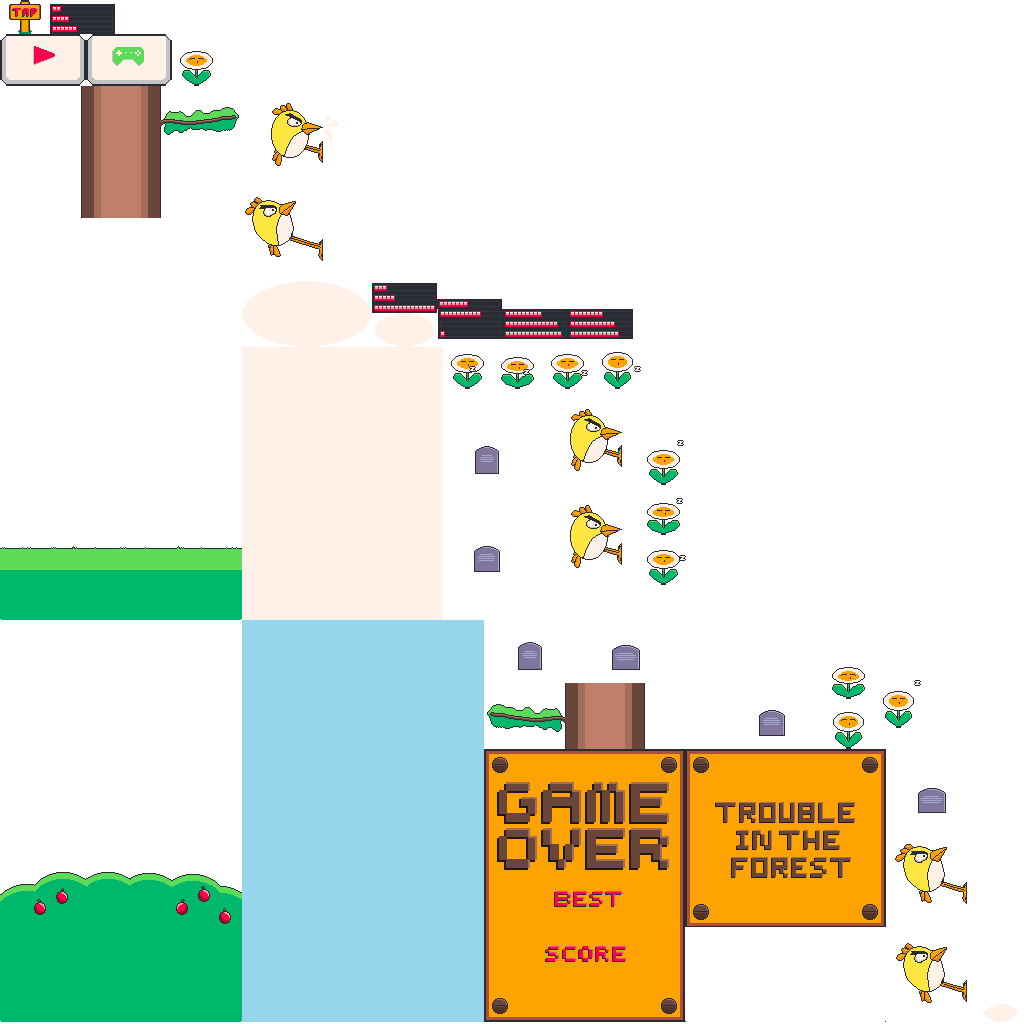
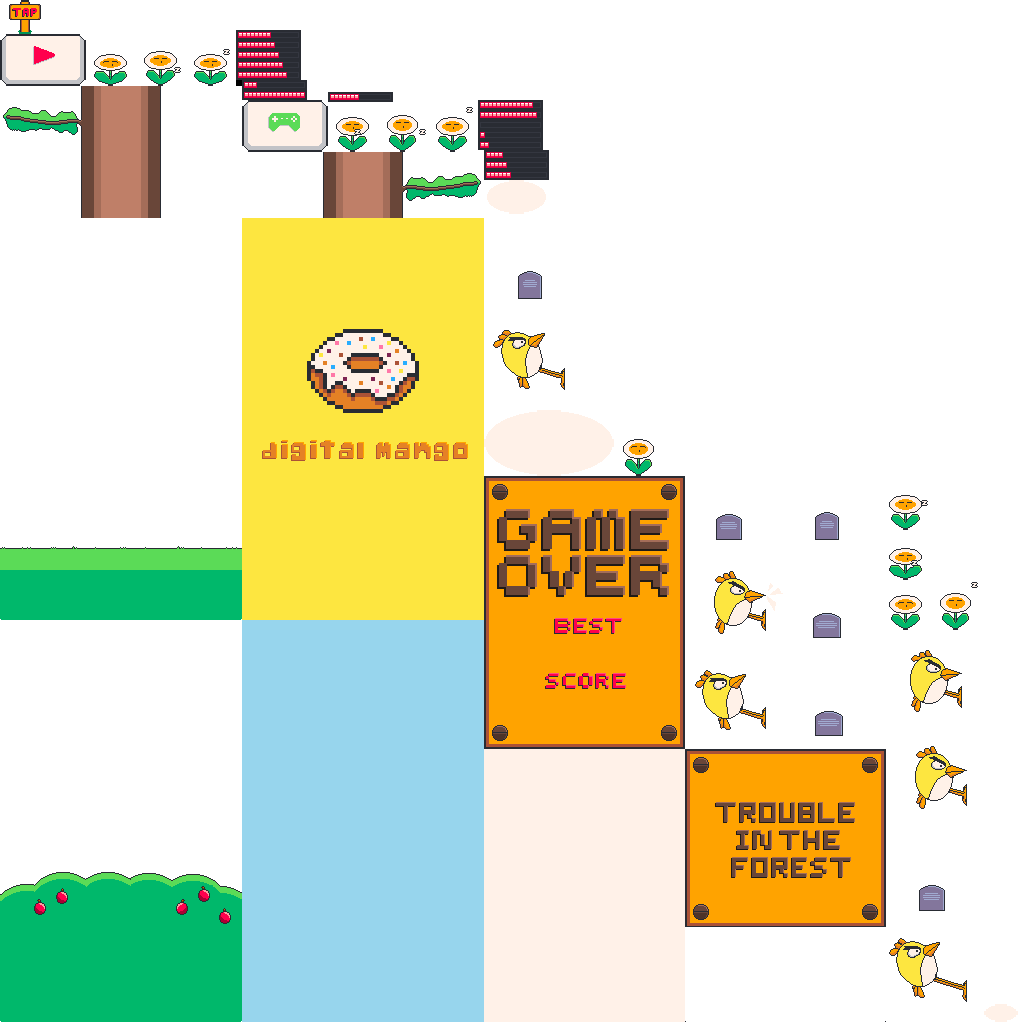
v5

Changed region(s): [[0.0, 0.0, 0.9375, 1.0], [0.7812, 0.5938, 0.8438, 0.625], [0.7812, 0.5, 0.8438, 0.5312]]

diff --git a/core/src/com/digitalmango/wildman/entities/Barra.java b/core/src/com/digitalmango/wildman/entities/Barra.java
@@ -1,5 +1,6 @@
 package com.digitalmango.wildman.entities;
 
+import com.badlogic.gdx.Gdx;
 import com.badlogic.gdx.graphics.g2d.Sprite;
 import com.badlogic.gdx.graphics.g2d.TextureAtlas;
 import com.badlogic.gdx.graphics.g2d.TextureRegion;
@@ -12,79 +13,110 @@ import com.digitalmango.wildman.MainGame;
 public class Barra {
     public Sprite sprite;
     private MainGame mainGame;
-
-    //Logic
-    float count = 8;
-    int timer = 0;
+    private TextureRegion[] regions;
 
     public Barra(MainGame mainGame){
         this.mainGame = mainGame;
+
+        regions = new TextureRegion[17];
+        for(int i = 1; i < 17; i++){
+            regions[i] = new TextureRegion(mainGame.assetLoader.getAssetManager()
+                    .get("atlas/game_assets.pack",TextureAtlas.class).findRegion("bar" + i));
+        }
+
         sprite = new Sprite();
         sprite.setBounds(57,20,126,16);
-        sprite.setRegion(new TextureRegion(mainGame.assetLoader.getAssetManager()
-                .get("atlas/game_assets.pack",TextureAtlas.class).findRegion("bar1")),0,0,63,8);
+        sprite.setRegion(regions[1],0,0,63,8);
     }
 
     public void update(float delta){
-        count = count - 1 * delta;
 
         actualizarBarra();
 
-            if (count > 0.15f){
-                count = 8f;
-                timer = 8;
+        if(MainGame.EN_PARTIDA){
+            MainGame.TIEMPO = MainGame.TIEMPO - 2.8f * delta;
+        }
+
+        if(MainGame.MOSTRAR_BARRA){
+            sprite.setAlpha(1);
+        }else{
+            sprite.setAlpha(0);
+        }
+
+            if (MainGame.TIEMPO < 0f && MainGame.EN_PARTIDA){
+                mainGame.gameOver();
+                mainGame.gameplayScreen.pajaro.death();
             }
 
         }
 
     private void actualizarBarra() {
-        if (count < 8f && count >= 7.5f){
-
+        if (MainGame.TIEMPO < 8f){
+            sprite.setRegion(regions[1],0,0,63,8);
         }
 
-        if (count < 7.5f && count >= 7.0f){
-
+        if (MainGame.TIEMPO < 7.5f){
+            sprite.setRegion(regions[2],0,0,63,8);
         }
 
-        if (count < 7.0f && count >= 6.5f){
-
+        if (MainGame.TIEMPO < 7.0f){
+            sprite.setRegion(regions[3],0,0,63,8);
         }
 
-        if (count < 6.5f && count >= 6.0f){
-
+        if (MainGame.TIEMPO <= 6.5f){
+            sprite.setRegion(regions[4],0,0,63,8);
         }
 
-        if (count < 6.0f && count >= 5.5f){
-
+        if (MainGame.TIEMPO <= 6.0f){
+            sprite.setRegion(regions[5],0,0,63,8);
         }
 
-        if (count < 5.5f && count >= 4.0f){
-
+        if (MainGame.TIEMPO <= 5.5f){
+            sprite.setRegion(regions[6],0,0,63,8);
         }
 
-        if (count < 4.0f && count >= 3.5f){
-
+        if (MainGame.TIEMPO <= 5.0f){
+            sprite.setRegion(regions[7],0,0,63,8);
         }
 
-        if (count < 3.5f && count >= 2.0f){
-
+        if (MainGame.TIEMPO <= 4.5f){
+            sprite.setRegion(regions[8],0,0,63,8);
         }
 
-        if (count < 2.0f && count >= 1.5f){
-
+        if (MainGame.TIEMPO <= 4.0f){
+            sprite.setRegion(regions[9],0,0,63,8);
         }
 
-        if (count < 1.5f && count >= 1.0f){
-
+        if (MainGame.TIEMPO <= 3.5f){
+            sprite.setRegion(regions[10],0,0,63,8);
         }
 
-        if (count < 1.0f && count >= 0.5f){
-
+        if (MainGame.TIEMPO <= 3.0f){
+            sprite.setRegion(regions[11],0,0,63,8);
         }
 
-        if (count < 0.5f && count >= 0.0f){
-
+        if (MainGame.TIEMPO <= 2.5f){
+            sprite.setRegion(regions[12],0,0,63,8);
         }
+
+        if (MainGame.TIEMPO <= 2.0f){
+            sprite.setRegion(regions[13],0,0,63,8);
+        }
+
+        if (MainGame.TIEMPO <= 1.5f){
+            sprite.setRegion(regions[14],0,0,63,8);
+        }
+
+        if (MainGame.TIEMPO <= 1.0f){
+            sprite.setRegion(regions[15],0,0,63,8);
+        }
+
+        if (MainGame.TIEMPO <= 0.5f){
+            sprite.setRegion(regions[16],0,0,63,8);
+        }
+
+
+        Gdx.app.log("time: " + MainGame.TIEMPO,"");
     }
 
 }

diff --git a/core/src/com/digitalmango/wildman/entities/Flor.java b/core/src/com/digitalmango/wildman/entities/Flor.java
@@ -1,0 +1,92 @@
+package com.digitalmango.wildman.entities;
+
+import com.badlogic.gdx.graphics.g2d.Animation;
+import com.badlogic.gdx.graphics.g2d.Batch;
+import com.badlogic.gdx.graphics.g2d.Sprite;
+import com.badlogic.gdx.graphics.g2d.TextureRegion;
+import com.badlogic.gdx.utils.Array;
+import com.digitalmango.wildman.MainGame;
+
+/**
+ * Created by Carlos Zamora on 13/02/2017.
+ */
+
+public class Flor {
+
+    //Animations
+    public enum State {IDLE, HAPPY;}
+    public State currentState;
+    public State previousState;
+
+    public float stateTimer;
+
+    Animation happyAnimation, idleAnimation;
+    Sprite sprite;
+    TextureRegion currentFrame;
+
+    public Flor(MainGame mainGame){
+        Array<TextureRegion> frames = new Array<TextureRegion>();
+        for(int i = 1; i < 5; i++){
+                frames.add(new TextureRegion(mainGame.getAssetAtlas().findRegion("flower_happy" + i), 0 , 0, 48, 48));
+        }
+        happyAnimation = new Animation(0.15f,frames);
+        frames.clear();
+
+
+        for(int i = 1; i < 9; i++){
+            frames.add(new TextureRegion(mainGame.getAssetAtlas().findRegion("flower_sleeping" + i), 0 , 0, 48, 48));
+        }
+        idleAnimation = new Animation(0.15f,frames);
+        frames.clear();
+
+
+        sprite = new Sprite();
+        sprite.setBounds(97, 71, 48, 48);
+
+    }
+
+    public void update(float delta, Batch batch){
+        currentFrame = getFrame(delta);
+        sprite.setRegion(currentFrame);
+        sprite.draw(batch);
+        sprite.draw(batch);
+    }
+
+    public TextureRegion getFrame(float delta) {
+        currentState = getState();
+
+        TextureRegion textureRegion;
+        switch (currentState) {
+
+            case HAPPY:
+                textureRegion = (TextureRegion) happyAnimation.getKeyFrame(stateTimer, true);
+                break;
+
+            case IDLE:
+                textureRegion = (TextureRegion) idleAnimation.getKeyFrame(stateTimer, true);
+                break;
+
+            default:
+                textureRegion = (TextureRegion) idleAnimation.getKeyFrame(stateTimer, true);
+
+                break;
+        }
+
+
+        stateTimer = currentState == previousState ? stateTimer + delta : 0;
+        previousState = currentState;
+
+        return textureRegion;
+    }
+
+    public State getState() {
+
+        if(MainGame.EN_PARTIDA){
+                return State.HAPPY;
+        }
+
+        return State.IDLE;
+
+    }
+
+}

diff --git a/core/src/com/digitalmango/wildman/MainGame.java b/core/src/com/digitalmango/wildman/MainGame.java
@@ -6,12 +6,14 @@ import com.badlogic.gdx.audio.Music;
 import com.badlogic.gdx.graphics.g2d.BitmapFont;
 import com.badlogic.gdx.graphics.g2d.TextureAtlas;
 import com.digitalmango.wildman.screens.GameplayScreen;
+import com.digitalmango.wildman.screens.SplashScreen;
 import com.digitalmango.wildman.tools.AssetLoader;
 import com.digitalmango.wildman.tools.Hud;
 
 public class MainGame extends Game {
 
-	public static int TIEMPO = 16;
+	public static boolean MOSTRAR_BARRA = false;
+	public static float TIEMPO = 8;
 	public static final int BEST = 0;
 	public static int POINTS = 0;
 	public static int NUMERO_PARTIDAS = 0;
@@ -33,6 +35,7 @@ public class MainGame extends Game {
 
 	//Gestión de pantalla
 	public GameplayScreen gameplayScreen;
+	public SplashScreen splashScreen;
 
 	public Hud hud;
 	private Music levelMusic, gameOverMusic;
@@ -56,11 +59,7 @@ public class MainGame extends Game {
 
 		loadScreens();
 
-		this.setScreen(gameplayScreen);
-
-		levelMusic.setLooping(true);
-		levelMusic.setVolume(MainGame.MUSIC_VOL);
-		levelMusic.play();
+		this.setScreen(splashScreen);
 
 	}
 	
@@ -82,10 +81,12 @@ public class MainGame extends Game {
 
 		hud = new Hud(this);
 		gameplayScreen = new GameplayScreen(this, this);
+		splashScreen = new SplashScreen(this, this);
 	}
 
 	public void nuevaPartida(){
 		MainGame.POINTS = 0;
+		MainGame.TIEMPO = 8;
 		MainGame.EN_PARTIDA = true;
 		gameplayScreen.nuevaPartida();
 		gameplayScreen.pajaro.isDEAD = false;
@@ -132,4 +133,9 @@ public class MainGame extends Game {
 
 	}
 
+	public void comenzar() {
+		levelMusic.setLooping(true);
+		levelMusic.setVolume(MainGame.MUSIC_VOL);
+		levelMusic.play();
+	}
 }

diff --git a/core/src/com/digitalmango/wildman/screens/GameplayScreen.java b/core/src/com/digitalmango/wildman/screens/GameplayScreen.java
@@ -10,6 +10,7 @@ import com.badlogic.gdx.graphics.g2d.TextureAtlas;
 import com.badlogic.gdx.graphics.g2d.TextureRegion;
 import com.digitalmango.wildman.MainGame;
 import com.digitalmango.wildman.entities.Barra;
+import com.digitalmango.wildman.entities.Flor;
 import com.digitalmango.wildman.entities.GestorTroncos;
 import com.digitalmango.wildman.entities.Nube;
 import com.digitalmango.wildman.entities.Pajaro;
@@ -44,6 +45,7 @@ public class GameplayScreen extends BaseScreen {
     public GestorTroncos gestorTroncos;
     public Pajaro pajaro;
     public Barra barra;
+    private Flor flor;
 
     public GameplayScreen(Game game, MainGame mainGame) {
         super(mainGame);
@@ -67,6 +69,7 @@ public class GameplayScreen extends BaseScreen {
 
         pajaro = new Pajaro(mainGame);
         barra = new Barra(mainGame);
+        flor = new Flor(mainGame);
 
         playerInputProcessor = new PlayerInputProcessor();
         inputMultiplexer = new InputMultiplexer();
@@ -111,6 +114,7 @@ public class GameplayScreen extends BaseScreen {
         barra.update(delta);
         barra.sprite.draw(batch);
         pajaro.update(delta, batch);
+        flor.update(delta,batch);
 
         batch.end();
 
@@ -147,6 +151,7 @@ public class GameplayScreen extends BaseScreen {
     public void nuevaPartida(){
         pajaro.cambiarPosicion(1);
         gestorTroncos.resetearTroncos();
+
     }
 
 

diff --git a/core/src/com/digitalmango/wildman/tools/AssetLoader.java b/core/src/com/digitalmango/wildman/tools/AssetLoader.java
@@ -24,9 +24,14 @@ public class AssetLoader {
         //sounds
         assetManager.load("sound/hit.ogg",Sound.class);
         assetManager.load("sound/death.ogg",Sound.class);
+        assetManager.load("sound/laser.ogg",Sound.class);
+        assetManager.load("sound/player_attack_2.ogg",Sound.class);
+
+
 
         //Atlas
         assetManager.load("atlas/game_assets.pack",TextureAtlas.class);
+
 
         //Finish loading
         assetManager.finishLoading();

diff --git a/core/src/com/digitalmango/wildman/tools/MenuCreator.java b/core/src/com/digitalmango/wildman/tools/MenuCreator.java
@@ -112,6 +112,8 @@ public class MenuCreator {
 
         MainGame.NUMERO_PARTIDAS++;
         hud.mainGame.nuevaPartida();
+
+        MainGame.MOSTRAR_BARRA = true;
     }
 
     public void actualizarLabels(){
@@ -128,6 +130,7 @@ public class MenuCreator {
                 rankingButton.setVisible(true);
                 playButton.setVisible(true);
                 cargarGameover = false;
+                MainGame.MOSTRAR_BARRA = false;
             }
         }
 

diff --git a/core/src/com/digitalmango/wildman/entities/GestorTroncos.java b/core/src/com/digitalmango/wildman/entities/GestorTroncos.java
@@ -77,6 +77,10 @@ public class GestorTroncos {
             }else{
                 picotazoSound.play(MainGame.SFX_VOL);
                 MainGame.POINTS+=1;
+
+                if(MainGame.TIEMPO <=8){
+                    MainGame.TIEMPO+=0.5f;
+                }
                 gameplayScreen.mainGame.hud.actualizarPuntos(MainGame.POINTS);
             }
         }
